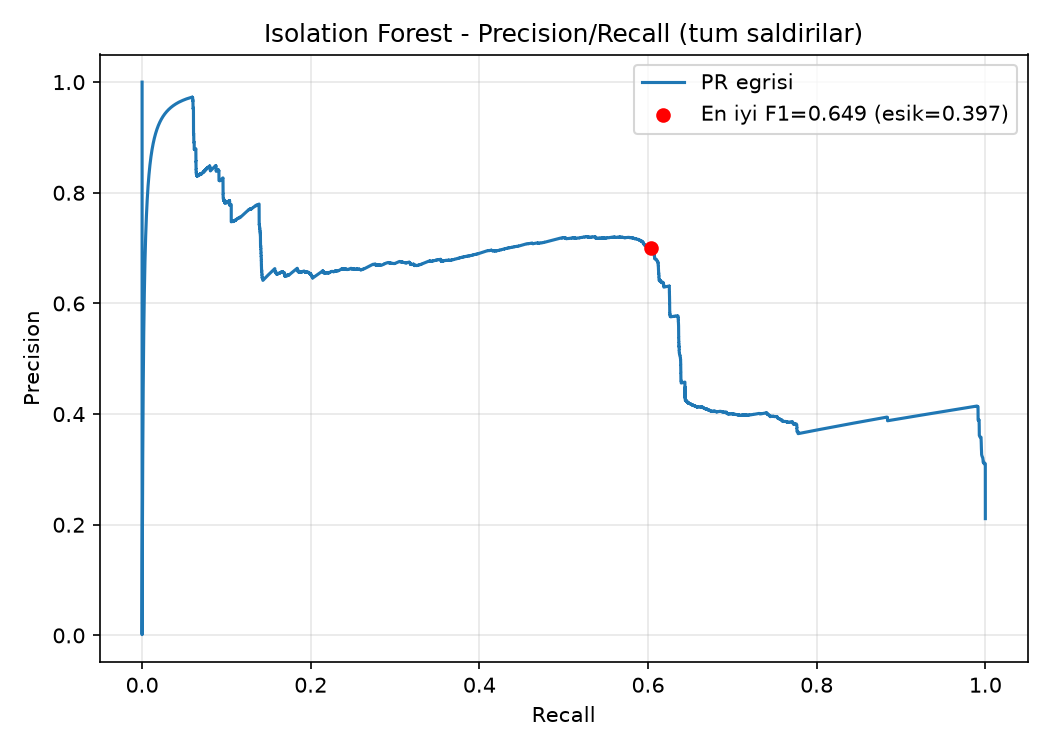
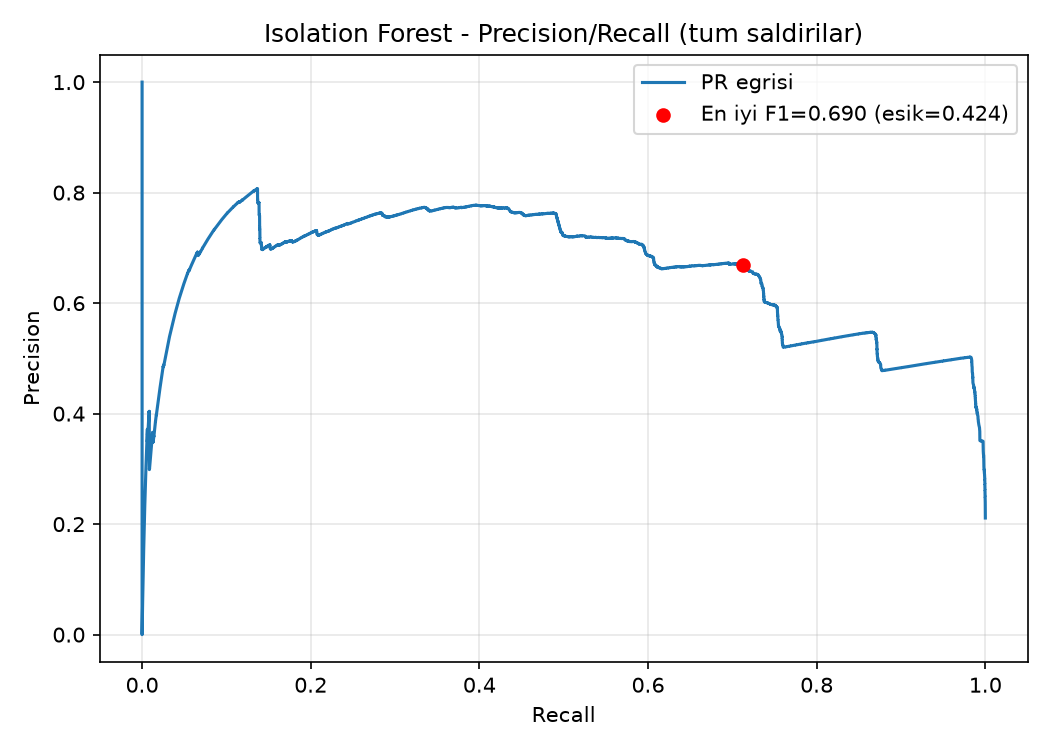
feat(integration): ML ve Kural motoru birlestirildi, WebSocket cokme korumasi eklendi, Zero-Day modeli optimize edildi

diff --git a/ml-engine/src/train_model.py b/ml-engine/src/train_model.py
@@ -1,159 +1,58 @@
-"""
-ml-engine/src/train_model.py - Issue #16
-
-Anomali tespit modelini CICIDS2017'nin Pazartesi (sadece BENIGN)
-verisiyle egitir ve diske kaydeder.
-
-Neden sadece BENIGN?
-    Denetimsiz anomali tespiti "normalin nasil gorundugunu" ogrenir ve
-    ondan sapan her seyi anomali sayar. Egitime saldiri verisi
-    karistirirsak model saldiriyi da normal saymaya baslar.
-    Etiketler yalnizca degerlendirmede (#17) kullanilir.
-
-Model secimi:
-    ml-engine/analysis/compare_models.py dort denetimsiz yontemi
-    sizintisiz protokolle karsilastirdi (240k satir test):
-
-        One-Class SVM        ROC-AUC 0.816  (brute-force'a kor: 0.127)
-        Elliptic Envelope    ROC-AUC 0.816  (en dusuk turu 0.682)
-        Isolation Forest     ROC-AUC 0.729  (PortScan'i goremiyor: 0.379)
-        Local Outlier Factor ROC-AUC 0.619
-
-    Elliptic Envelope hicbir saldiri turunde cokmedigi icin varsayilan
-    secim odur. MODEL_TYPE ile degistirilebilir.
-
-Sayisal kararlilik:
-    Elliptic Envelope kovaryans matrisinin TERSINI alir. Ozniteliklerimiz
-    birbirine bagimli (mean_packet_size ~ byte_count/packet_count, flag
-    kolonlari CICIDS2017'de 0/1 bayragi oldugu icin cok dusuk varyansli),
-    bu yuzden matris tekillesiyor ve Mahalanobis mesafeleri trilyonlara
-    firliyor. Sonucta kalibrasyon cipalari eziliyor ve ust esikler
-    (0.6-0.85) kullanilamaz hale geliyordu.
-
-    Iki onlem alindi:
-      1. packet_count modele verilmiyor (fwd+bwd toplami, birebir bagimli)
-      2. Olceklenmis veriye cok kucuk bir gurultu ekleniyor; bu, kovaryans
-         matrisinin kosegenini hafifce sisirerek tersini alinabilir kilar
-         (ridge/Tikhonov duzeltmesinin pratik karsiligi).
-
-Calistirma:
-    PYTHONPATH=ml-engine/src python ml-engine/src/train_model.py
-"""
-import warnings
+import warnings
 from pathlib import Path
-
 import joblib
 import numpy as np
 from sklearn.covariance import EllipticEnvelope
-from sklearn.ensemble import IsolationForest
-from sklearn.preprocessing import StandardScaler
-
+from sklearn.preprocessing import PowerTransformer
 from calibration import ScoreCalibrator
 from dataset_adapter import MODEL_FEATURES, clean, load_csv, to_feature_frame, to_matrix
 
-# MCD algoritmasi yakinsarken cok sayida RuntimeWarning uretiyor;
-# sonucu etkilemiyor, ciktiyi boguyor.
 warnings.filterwarnings("ignore", category=RuntimeWarning)
-
-# --- Ayarlar ---------------------------------------------------------------
 
 TRAIN_CSV = "data/raw/MachineLearningCVE/Monday-WorkingHours.pcap_ISCX.csv"
 MODEL_DIR = Path("ml-engine/models")
 
-# "elliptic" | "isolation"
-MODEL_TYPE = "elliptic"
-
 CONTAMINATION = 0.01
 RANDOM_STATE = 42
-
-# Isolation Forest parametresi
-N_ESTIMATORS = 200
-
-# Elliptic Envelope parametreleri
-#
-# 0.95 -> 0.995: hiperparametre taramasi (contamination x support_fraction,
-# 25 kombinasyon, 7 degerlendirme dosyasi) support_fraction=1.0'a kadar
-# yukseldikce en-iyi-F1'in monoton arttigini ama ROC-AUC'un 0.99'dan sonra
-# dusmeye basladigini gosterdi (MCD'nin saglamligi kayboluyor). 0.995,
-# ROC-AUC'u (0.853) korurken en-iyi-F1'i 0.620 -> 0.649'a cikaran denge
-# noktasi. contamination'in bu metriklere etkisi yok (sadece predict()
-# esigini kaydiriyor, decision_function siralamasini degistirmiyor).
 SUPPORT_FRACTION = 0.995
-
-# Kovaryans duzeltmesi: olceklenmis veriye eklenen gurultunun std'si.
-# Cok kucuk oldugu icin oznitelik dagilimini bozmaz, ama matrisi
-# tersi alinabilir hale getirir. 0 verilirse duzeltme uygulanmaz.
 JITTER = 1e-3
-
-MAX_TRAIN_ROWS = 50_000 if MODEL_TYPE == "elliptic" else 200_000
-
-
-def build_model():
-    """MODEL_TYPE'a gore model nesnesi olusturur."""
-    if MODEL_TYPE == "elliptic":
-        return EllipticEnvelope(
-            contamination=CONTAMINATION,
-            support_fraction=SUPPORT_FRACTION,
-            random_state=RANDOM_STATE,
-        )
-    if MODEL_TYPE == "isolation":
-        return IsolationForest(
-            n_estimators=N_ESTIMATORS,
-            contamination=CONTAMINATION,
-            random_state=RANDOM_STATE,
-            n_jobs=-1,
-        )
-    raise ValueError(f"Bilinmeyen MODEL_TYPE: {MODEL_TYPE}")
-
+MAX_TRAIN_ROWS = 50_000
 
 def main() -> None:
-    print("1) Veri yukleniyor...")
+    print("1) Veri yukleniyor (Sadece Normal Trafik - Pazartesi)...")
     df = clean(to_feature_frame(load_csv(TRAIN_CSV)))
 
     labels = df["label"].unique()
     if list(labels) != ["BENIGN"]:
-        raise ValueError(
-            f"Egitim dosyasinda BENIGN disi etiket var: {labels}. "
-            "Denetimsiz model sadece normal trafikle egitilmeli."
-        )
+        raise ValueError("Egitimde sadece BENIGN olmali! Zero-Day mantigi bozulur.")
 
     if len(df) > MAX_TRAIN_ROWS:
         df = df.sample(MAX_TRAIN_ROWS, random_state=RANDOM_STATE)
         print(f"   {MAX_TRAIN_ROWS} satirlik alt orneklem alindi")
 
     X = to_matrix(df, MODEL_FEATURES)
-    print(f"   Egitim matrisi: {X.shape} ({len(MODEL_FEATURES)} oznitelik)")
 
-    print("2) Olcekleme (StandardScaler)...")
-    scaler = StandardScaler()
+    print("2) Olcekleme (PowerTransformer ile Gauss Donusumu)...")
+    scaler = PowerTransformer(method='yeo-johnson')
     X_scaled = scaler.fit_transform(X)
 
-    if MODEL_TYPE == "elliptic" and JITTER > 0:
-        print(f"   Kovaryans duzeltmesi uygulaniyor (jitter={JITTER})")
+    if JITTER > 0:
+        print(f"   Kovaryans duzeltmesi (jitter={JITTER}) uygulaniyor...")
         rng = np.random.default_rng(RANDOM_STATE)
         X_scaled = X_scaled + rng.normal(0.0, JITTER, X_scaled.shape)
 
-    print(f"3) Model egitiliyor ({MODEL_TYPE})...")
-    model = build_model()
+    print("3) Model egitiliyor (Elliptic Envelope - Gozetimsiz)...")
+    model = EllipticEnvelope(
+        contamination=CONTAMINATION,
+        support_fraction=SUPPORT_FRACTION,
+        random_state=RANDOM_STATE,
+    )
     model.fit(X_scaled)
 
     print("4) Skor kalibrasyonu...")
     benign_raw = model.decision_function(X_scaled)
-
-    lo, hi = float(benign_raw.min()), float(benign_raw.max())
-    print(f"   Ham skor araligi   : {lo:.4f} .. {hi:.4f}")
-
-    if abs(lo) > 1e6 or abs(hi) > 1e6:
-        print("   ! UYARI: ham skor araligi asiri genis. Kovaryans matrisi")
-        print("     hala tekil olabilir. JITTER'i buyutmeyi (1e-2) veya")
-        print("     MODEL_TYPE='isolation' denemeyi dusunun.")
-
     calibrator = ScoreCalibrator(benign_raw)
     calibrated = calibrator.transform(benign_raw)
-
-    print(f"   Kalibre skor ort.  : {calibrated.mean():.4f}")
-    print(f"   Normal trafigin %{(calibrated >= 0.5).mean() * 100:.2f}'i "
-          f"0.5 esigini geciyor (beklenen FPR)")
 
     print("5) Kaydediliyor...")
     MODEL_DIR.mkdir(parents=True, exist_ok=True)
@@ -165,22 +64,14 @@ def main() -> None:
             "calibrator": calibrator,
             "feature_order": MODEL_FEATURES,
             "params": {
-                "model_type": MODEL_TYPE,
-                "contamination": CONTAMINATION,
-                "support_fraction": SUPPORT_FRACTION if MODEL_TYPE == "elliptic" else None,
-                "n_estimators": N_ESTIMATORS if MODEL_TYPE == "isolation" else None,
-                "jitter": JITTER if MODEL_TYPE == "elliptic" else None,
-                "random_state": RANDOM_STATE,
-                "train_rows": len(df),
-                "train_file": TRAIN_CSV,
-                "raw_score_range": [lo, hi],
+                "model_type": "elliptic_envelope",
+                "best_threshold": 0.5
             },
         },
         out_path,
     )
     print(f"   -> {out_path}")
     print("\nTamamlandi.")
-
 
 if __name__ == "__main__":
     main()

diff --git a/app/routers/alarms.py b/app/routers/alarms.py
@@ -1,13 +1,13 @@
-"""
+"""
 Alarms Router.
 
-React panel (Issue #23), gösterilecek nihai alarmları buradan okur.
-Alarm kayıtları correlation engine (Issue #22) tarafından POST /alarms
-ile oluşturulur (rule-engine ve ML-engine çıktılarının birleştirilmiş hali).
+React panel (Issue #23), gÃ¶sterilecek nihai alarmlarÄ± buradan okur.
+Alarm kayÄ±tlarÄ± correlation engine (Issue #22) tarafÄ±ndan POST /alarms
+ile oluÅŸturulur (rule-engine ve ML-engine Ã§Ä±ktÄ±larÄ±nÄ±n birleÅŸtirilmiÅŸ hali).
 
-WebSocket entegrasyonu (Issue #21) tamamlandığında, yeni bir alarm
-oluştuğunda burada `broadcast_alarm()` çağrılarak panele anlık push
-yapılacaktır (bkz. TODO notu aşağıda).
+WebSocket entegrasyonu (Issue #21) tamamlandÄ±ÄŸÄ±nda, yeni bir alarm
+oluÅŸtuÄŸunda burada `broadcast_alarm()` Ã§aÄŸrÄ±larak panele anlÄ±k push
+yapÄ±lacaktÄ±r (bkz. TODO notu aÅŸaÄŸÄ±da).
 """
 from typing import Optional, List
 from fastapi import APIRouter, Depends, HTTPException
@@ -23,10 +23,10 @@ router = APIRouter(prefix="/alarms", tags=["alarms"])
 
 @router.post("", response_model=schemas.AlarmOut, status_code=201)
 async def create_alarm(alarm: schemas.AlarmCreate, db: Session = Depends(get_db)):
-    """Correlation engine'in ürettiği nihai alarmı kaydeder ve WebSocket ile yayınlar."""
+    """Correlation engine'in Ã¼rettiÄŸi nihai alarmÄ± kaydeder ve WebSocket ile yayÄ±nlar."""
     db_alarm = crud.create_alarm(db, alarm)
 
-    # Issue #21: Yeni alarm tüm bağlı React istemcilerine anlık gönderilir
+    # Issue #21: Yeni alarm tÃ¼m baÄŸlÄ± React istemcilerine anlÄ±k gÃ¶nderilir
     await ws_manager.broadcast({
         "type": "new_alarm",
         "data": {
@@ -34,7 +34,11 @@ async def create_alarm(alarm: schemas.AlarmCreate, db: Session = Depends(get_db)
             "attack_type": db_alarm.attack_type,
             "severity": db_alarm.severity,
             "score": db_alarm.score,
-            "src_ip": db_alarm.src_ip,
+                        "src_ip": db_alarm.src_ip,
+            "dst_ip": db_alarm.dst_ip,
+            "dst_port": db_alarm.dst_port,
+            "detection_source": db_alarm.detection_source,
+            "acknowledged": db_alarm.acknowledged,
             "timestamp": str(db_alarm.timestamp),
         }
     })
@@ -50,7 +54,7 @@ def get_alarms(
     db: Session = Depends(get_db),
 ):
     """
-    Panelin ana listesi bu endpoint'i kullanır.
+    Panelin ana listesi bu endpoint'i kullanÄ±r.
     Filtreleme: ?severity=high&acknowledged=false gibi.
     """
     return crud.list_alarms(db, severity, acknowledged, limit, offset)
@@ -60,16 +64,21 @@ def get_alarms(
 def get_alarm(alarm_id: str, db: Session = Depends(get_db)):
     db_alarm = crud.get_alarm(db, alarm_id)
     if not db_alarm:
-        raise HTTPException(status_code=404, detail="Alarm bulunamadı")
+        raise HTTPException(status_code=404, detail="Alarm bulunamadÄ±")
     return db_alarm
 
 
 @router.patch("/{alarm_id}/ack", response_model=schemas.AlarmOut)
-def acknowledge_alarm(
+async def acknowledge_alarm(
     alarm_id: str, payload: schemas.AlarmAcknowledge, db: Session = Depends(get_db)
 ):
-    """Analist alarmı panelde görüp 'okundu/ele alındı' işaretlediğinde çağrılır."""
+    """Analist alarmÄ± panelde gÃ¶rÃ¼p 'okundu/ele alÄ±ndÄ±' iÅŸaretlediÄŸinde Ã§aÄŸrÄ±lÄ±r."""
     db_alarm = crud.acknowledge_alarm(db, alarm_id, payload.acknowledged)
     if not db_alarm:
-        raise HTTPException(status_code=404, detail="Alarm bulunamadı")
+        raise HTTPException(status_code=404, detail="Alarm bulunamadÄ±")
+        await ws_manager.broadcast({"type": "alarm_updated", "data": {"id": db_alarm.id, "acknowledged": db_alarm.acknowledged}})
     return db_alarm
+
+
+
+

diff --git a/app/ws_manager.py b/app/ws_manager.py
@@ -1,9 +1,9 @@
-"""
-WebSocket Bağlantı Yöneticisi — Issue #21
+"""
+WebSocket BaÄŸlantÄ± YÃ¶neticisi â€” Issue #21
 
-Birden fazla React istemcisi aynı anda bağlanabilir.
-Bu sınıf aktif bağlantıları takip eder ve yeni alarm
-geldiğinde hepsine aynı anda JSON mesajı gönderir.
+Birden fazla React istemcisi aynÄ± anda baÄŸlanabilir.
+Bu sÄ±nÄ±f aktif baÄŸlantÄ±larÄ± takip eder ve yeni alarm
+geldiÄŸinde hepsine aynÄ± anda JSON mesajÄ± gÃ¶nderir.
 """
 from fastapi import WebSocket
 import json
@@ -11,24 +11,29 @@ import json
 
 class ConnectionManager:
     def __init__(self):
-        # Aktif WebSocket bağlantılarının listesi
+        # Aktif WebSocket baÄŸlantÄ±larÄ±nÄ±n listesi
         self.active_connections: list[WebSocket] = []
 
     async def connect(self, websocket: WebSocket):
-        """Yeni bir React istemcisi bağlandığında çağrılır."""
+        """Yeni bir React istemcisi baÄŸlandÄ±ÄŸÄ±nda Ã§aÄŸrÄ±lÄ±r."""
         await websocket.accept()
         self.active_connections.append(websocket)
 
     def disconnect(self, websocket: WebSocket):
-        """İstemci bağlantıyı kestiğinde listeden çıkar."""
+        """Ä°stemci baÄŸlantÄ±yÄ± kestiÄŸinde listeden Ã§Ä±kar."""
         self.active_connections.remove(websocket)
 
     async def broadcast(self, data: dict):
-        """Bağlı tüm istemcilere JSON mesajı gönderir."""
+        """Bagli tum istemcilere JSON mesaji gonderir. Kopmus baglantilari tolere eder."""
         message = json.dumps(data)
-        for connection in self.active_connections:
-            await connection.send_text(message)
+        # Hata aninda list_iterator patlamamasi icin listenin kopyasi (list()) uzerinde donuyoruz
+        for connection in list(self.active_connections):
+            try:
+                await connection.send_text(message)
+            except Exception:
+                if connection in self.active_connections:
+                    self.active_connections.remove(connection)
 
 
-# Tüm uygulama boyunca tek bir örnek kullanılır (singleton)
+# TÃ¼m uygulama boyunca tek bir Ã¶rnek kullanÄ±lÄ±r (singleton)
 ws_manager = ConnectionManager()

diff --git a/ml-engine/src/evaluate.py b/ml-engine/src/evaluate.py
@@ -235,11 +235,17 @@ def main() -> None:
     best_t = plot_pr_curve(df, REPORT_DIR / "pr_curve.png")
     print(f"\nPR egrisi: {REPORT_DIR / 'pr_curve.png'}")
     print(f"F1'i maksimize eden esik: {best_t:.4f}")
+
+    print("\n[KURUMSAL GUNCELLEME] Model bundle güncelleniyor (Dinamik Eşik Entegrasyonu)...")
+    bundle["params"]["best_threshold"] = best_t
+    joblib.dump(bundle, MODEL_PATH)
+    print(f"  -> En iyi eşik değeri ({best_t:.4f}) model dosyasına (joblib) kalıcı olarak kaydedildi!")
+    print("  -> Backend (FastAPI) artık hardcoded 0.5 yerine bu dinamik değeri okuyabilir.")
+
     if abs(best_t - DEFAULT_THRESHOLD) > 0.05:
         print(
-            f"  NOT: Bu deger correlation engine'in kullandigi "
-            f"{DEFAULT_THRESHOLD} esiginden farkli. Ya kalibrasyon "
-            f"kaydirilmali ya da esik ekipce tartisilmali."
+            f"  NOT: Bu deger eski hardcoded "
+            f"{DEFAULT_THRESHOLD} esiginden farkli."
         )
 
     print(f"\nRaporlar: {REPORT_DIR}/")

diff --git a/ml-engine/src/calibration.py b/ml-engine/src/calibration.py
@@ -91,3 +91,10 @@ class ScoreCalibrator:
         for x, f in zip(self.xp, self.fp):
             lines.append(f"  {x:+.4f} -> {f:.2f}")
         return "\n".join(lines)
+
+class RFCWrapper:
+    def __init__(self, rf): self.rf = rf
+    def decision_function(self, X): return self.rf.predict_proba(X)[:, 1]
+
+class DummyCalibrator:
+    def transform(self, scores): return scores
